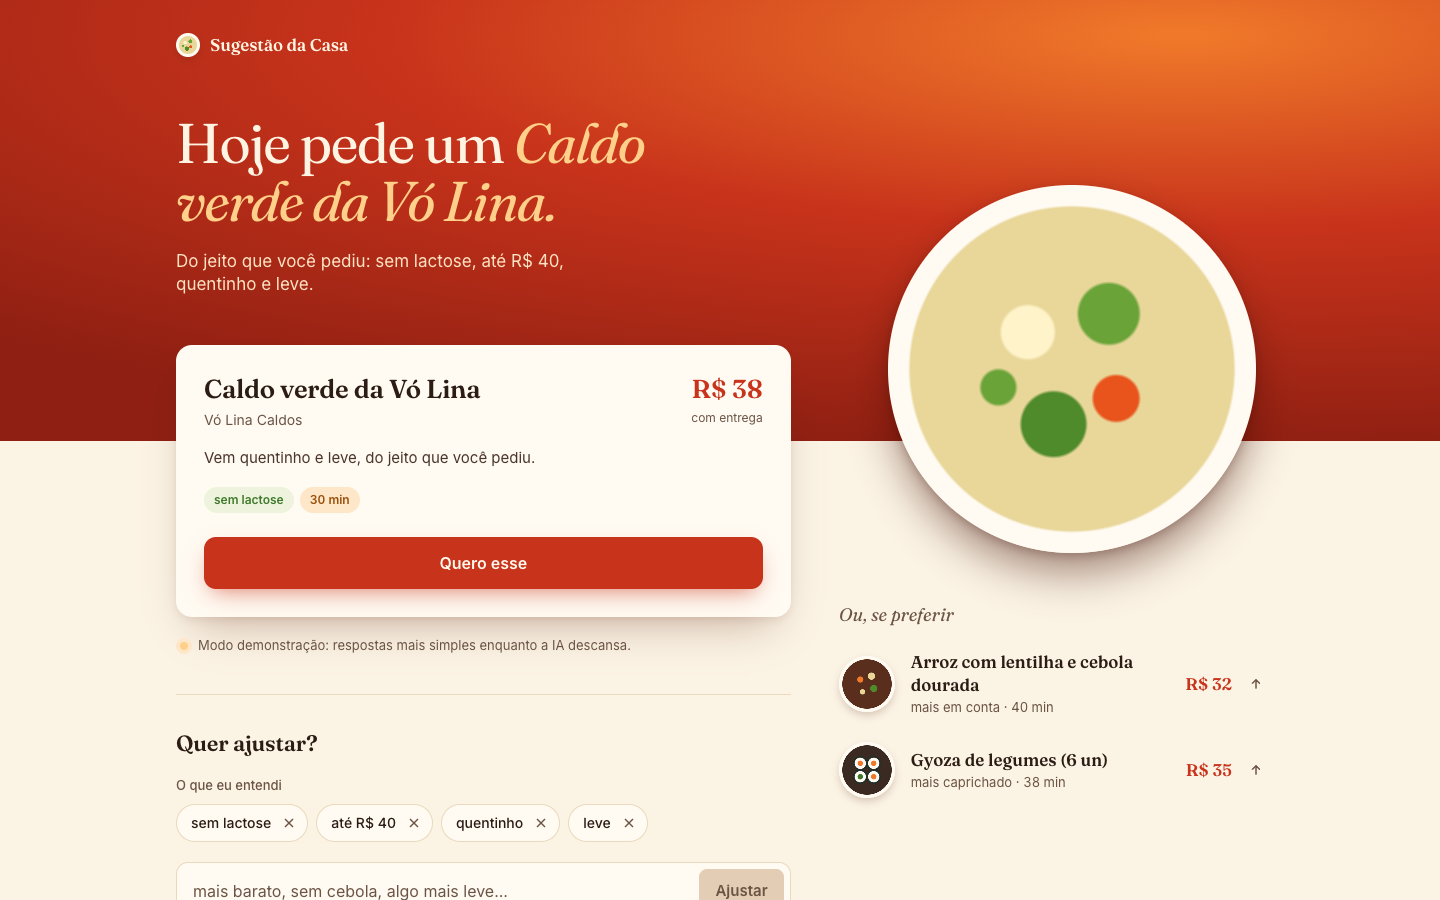
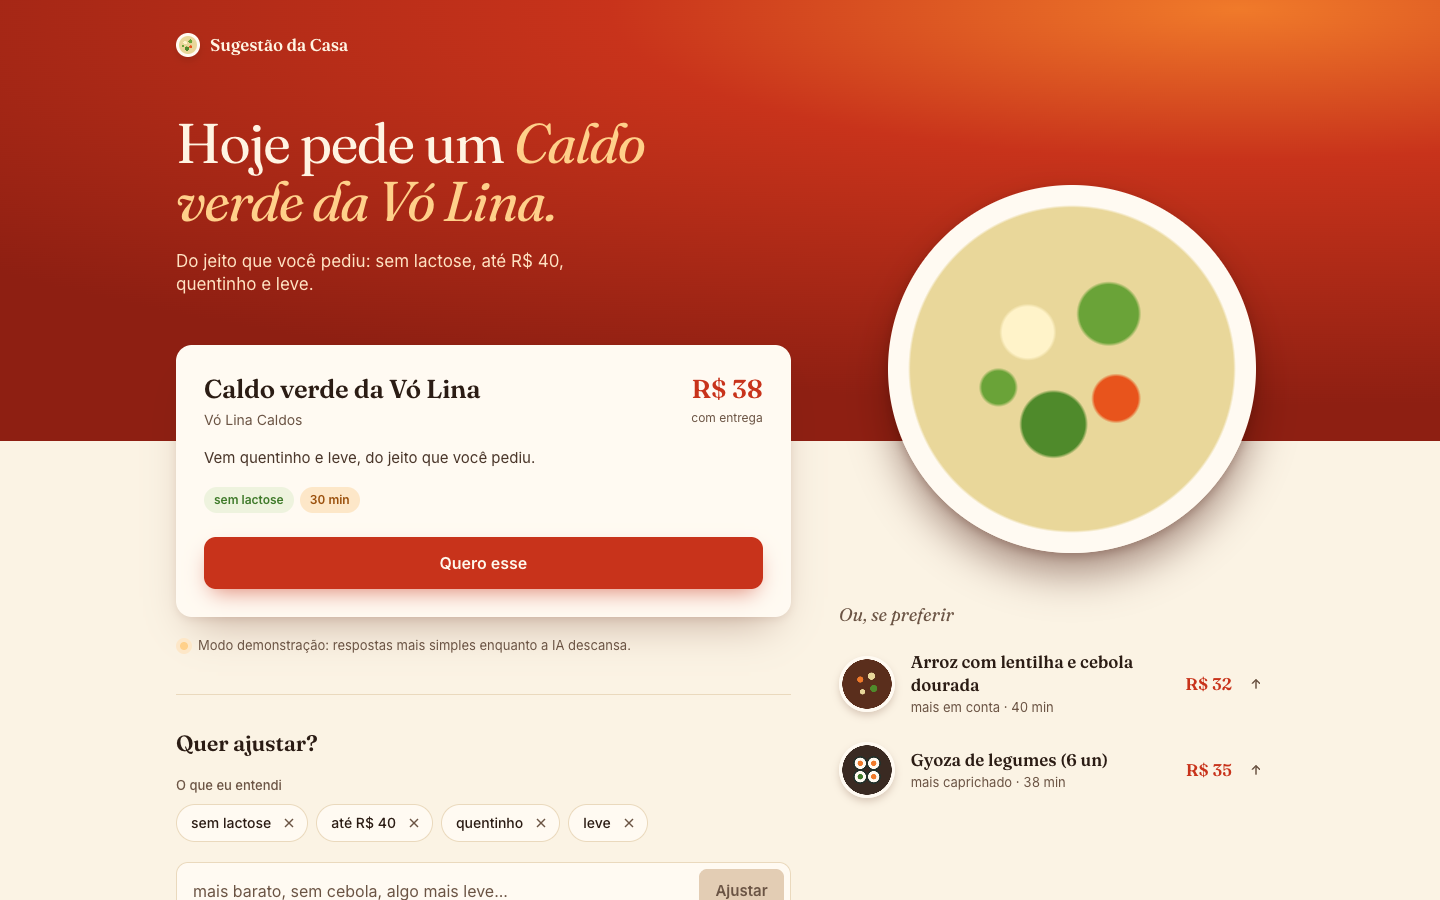
fix: foco visível e gerenciado, contraste do topo e casos de borda
Anel de foco sólido nos campos; foco vai ao título quando a tela muda;
gradiente do topo mais fechado no canto; ok sem principal cai em sem
resultado; só fotos do Unsplash vão para o next/image; troca de
alternativa anunciada; ids sem colisão.

Changed region(s): [[0.5, 0.0933, 0.875, 0.1867]]

diff --git a/frontend/app/page.tsx b/frontend/app/page.tsx
@@ -1,14 +1,14 @@
 "use client";
 
-import { useEffect, type ReactNode } from "react";
+import { useEffect, useRef, useState, type ReactNode } from "react";
 import { Ajuste } from "@/components/Ajuste";
 import { Compositor } from "@/components/Compositor";
-import { Cozinha } from "@/components/Cozinha";
+import { Cozinha, ID_CAMPO_PEDIDO, ID_TITULO } from "@/components/Cozinha";
 import { Decisao } from "@/components/Decisao";
 import { aquecer } from "@/lib/api";
 import { formatarReais } from "@/lib/formato";
 import { useSessao, type EstadoSessao } from "@/lib/sessao";
-import type { PratoSugerido } from "@/lib/tipos";
+import type { PratoSugerido, RespostaSugestao } from "@/lib/tipos";
 
 // O carrinho chega na próxima etapa; por enquanto "Quero esse" não leva a lugar nenhum.
 function aoQuerer(prato: PratoSugerido) {
@@ -22,7 +22,7 @@ function anuncio(estado: EstadoSessao): string {
     const p = resposta.principal;
     return `${resposta.frase_decisao ?? p.nome} ${formatarReais(p.total_centavos)} com entrega.`;
   }
-  if (fase === "sem_resultado") return "Não encontrei um prato com tudo isso.";
+  if (fase === "sem_resultado" || fase === "resultado") return "Não encontrei um prato com tudo isso.";
   if (fase === "falha") return "A cozinha não respondeu.";
   return "";
 }
@@ -38,7 +38,11 @@ const PRATOS_DA_ABERTURA = (
 function TituloSimples({ titulo, texto }: { titulo: ReactNode; texto: string }) {
   return (
     <>
-      <h1 className="font-titulo text-[2.125rem] font-normal leading-[1.04] tracking-[-0.025em] text-balance sm:text-[2.75rem] md:text-[4rem]">
+      <h1
+        id={ID_TITULO}
+        tabIndex={-1}
+        className="font-titulo text-[2.125rem] outline-none font-normal leading-[1.04] tracking-[-0.025em] text-balance sm:text-[2.75rem] md:text-[4rem]"
+      >
         {titulo}
       </h1>
       <p className="mt-3 max-w-[38ch] text-[0.9375rem] leading-snug text-creme-rosado md:mt-5 md:text-[1.0625rem]">
@@ -53,16 +57,38 @@ export default function Home() {
   const { fase, resposta } = estado;
   const pensando = fase === "pensando";
   const frasePensando = estado.ultimoPedido?.texto ?? null;
+  // Troca de alternativa feita na tela, anunciada enquanto a resposta for a mesma.
+  const [troca, setTroca] = useState<{ de: RespostaSugestao; nome: string } | null>(null);
+  const faseAnterior = useRef(fase);
 
   useEffect(() => {
     aquecer();
   }, []);
 
+  // Quando a tela muda, o foco vai junto: para o título da tela nova, ou para o campo ao voltar ao início.
+  useEffect(() => {
+    const antes = faseAnterior.current;
+    faseAnterior.current = fase;
+    if (fase === "resultado" || fase === "sem_resultado" || fase === "falha") {
+      document.getElementById(ID_TITULO)?.focus();
+    } else if (fase === "inicio" && antes !== "inicio") {
+      document.getElementById(ID_CAMPO_PEDIDO)?.focus();
+    }
+  }, [fase, resposta]);
+
+  function aoTrocar(prato: PratoSugerido) {
+    escolherPrato(prato.id);
+    if (resposta) setTroca({ de: resposta, nome: prato.nome });
+  }
+
+  const aviso =
+    fase === "resultado" && troca && troca.de === resposta ? `Agora a sugestão é ${troca.nome}.` : anuncio(estado);
+
   let tela: ReactNode;
 
-  if (resposta && resposta.status === "ok" && (fase === "resultado" || pensando)) {
+  if (resposta?.principal && resposta.status === "ok" && (fase === "resultado" || pensando)) {
     tela = (
-      <Decisao resposta={resposta} aoQuerer={aoQuerer} aoTrocar={(p) => escolherPrato(p.id)} pensando={pensando}>
+      <Decisao resposta={resposta} aoQuerer={aoQuerer} aoTrocar={aoTrocar} pensando={pensando}>
         <Ajuste
           etiquetas={resposta.entendido}
           aoRemover={removerEtiqueta}
@@ -72,7 +98,7 @@ export default function Home() {
         />
       </Decisao>
     );
-  } else if (resposta && (fase === "sem_resultado" || pensando)) {
+  } else if (resposta && (fase === "sem_resultado" || fase === "resultado" || pensando)) {
     // Provisório: a tela caprichada de "sem resultado" vem na próxima etapa.
     tela = (
       <Cozinha
@@ -146,7 +172,7 @@ export default function Home() {
     <main className="flex flex-1 flex-col">
       {tela}
       <p aria-live="polite" className="sr-only">
-        {anuncio(estado)}
+        {aviso}
       </p>
     </main>
   );

diff --git a/frontend/tests/unit/telas.test.tsx b/frontend/tests/unit/telas.test.tsx
@@ -1,8 +1,10 @@
-import { fireEvent, render, screen, within } from "@testing-library/react";
+import { fireEvent, render, screen, waitFor, within } from "@testing-library/react";
+import Home from "@/app/page";
 import { describe, expect, it, vi } from "vitest";
 import { Compositor } from "@/components/Compositor";
 import { Decisao } from "@/components/Decisao";
 import { Entendido } from "@/components/Entendido";
+import { FotoPrato } from "@/components/FotoPrato";
 import { SeloDemonstracao } from "@/components/SeloDemonstracao";
 import type { RespostaSugestao } from "@/lib/tipos";
 import { prato, respostaOk } from "./fixtures";
@@ -96,5 +98,53 @@ describe("Entendido", () => {
     );
     fireEvent.click(screen.getByRole("button", { name: "Remover sem lactose" }));
     expect(aoRemover).toHaveBeenCalledWith("restricao:sem_lactose");
+  });
+});
+
+function servirResposta(resposta: RespostaSugestao) {
+  const fetch = vi.fn((url: string) =>
+    Promise.resolve(
+      url.endsWith("/health")
+        ? new Response("{}", { status: 200 })
+        : new Response(JSON.stringify(resposta), { status: 200 }),
+    ),
+  );
+  vi.stubGlobal("fetch", fetch);
+  return fetch;
+}
+
+describe("Home", () => {
+  it("move o foco para o título quando o resultado chega e anuncia a troca", async () => {
+    servirResposta(respostaCompleta());
+    render(<Home />);
+    fireEvent.click(screen.getByRole("button", { name: /fresquinho e rápido/ }));
+    const titulo = await screen.findByRole("heading", { level: 1, name: "Hoje pede um Caldo verde." });
+    await waitFor(() => expect(titulo).toHaveFocus());
+    fireEvent.click(screen.getByRole("button", { name: /Lámen shoyu/ }));
+    expect(screen.getByText("Agora a sugestão é Lámen shoyu.")).toBeInTheDocument();
+    vi.unstubAllGlobals();
+  });
+
+  it("status ok sem prato principal cai na tela de sem resultado", async () => {
+    servirResposta({ ...respostaCompleta(), principal: null, alternativas: [] });
+    render(<Home />);
+    fireEvent.click(screen.getByRole("button", { name: /fresquinho e rápido/ }));
+    const titulo = await screen.findByRole("heading", { level: 1, name: "Com tudo isso junto, não achei." });
+    await waitFor(() => expect(titulo).toHaveFocus());
+    vi.unstubAllGlobals();
+  });
+});
+
+describe("FotoPrato", () => {
+  it("usa o prato ilustrado quando a foto não é do Unsplash", () => {
+    const { container, rerender } = render(
+      <FotoPrato nome="Caldo" fotoUrl="https://exemplo.com/caldo.jpg" tamanho="medio" sizes="56px" />,
+    );
+    expect(container.querySelector("img")).toBeNull();
+    expect(container.firstChild).toHaveClass("prato-caldo");
+    rerender(
+      <FotoPrato nome="Caldo" fotoUrl="https://images.unsplash.com/photo-1?w=800" tamanho="medio" sizes="56px" />,
+    );
+    expect(container.querySelector("img")).not.toBeNull();
   });
 });

diff --git a/frontend/components/Compositor.tsx b/frontend/components/Compositor.tsx
@@ -2,6 +2,7 @@
 
 import { useId, useState, type FormEvent, type KeyboardEvent } from "react";
 import { LIMITES } from "@/lib/tipos";
+import { ID_CAMPO_PEDIDO } from "./Cozinha";
 import { Pensando } from "./Pensando";
 
 export const EXEMPLOS = [
@@ -21,7 +22,7 @@ interface Props {
 /** Quadro do pedido: o campo grande, o botão e os exemplos. Vira o "pensando" no mesmo lugar. */
 export function Compositor({ aoEnviar, pensando, frasePensando }: Props) {
   const [texto, setTexto] = useState("");
-  const campoId = useId();
+  const campoId = ID_CAMPO_PEDIDO;
   const contadorId = useId();
   const vazio = texto.trim().length === 0;
 
@@ -44,7 +45,7 @@ export function Compositor({ aoEnviar, pensando, frasePensando }: Props) {
 
   return (
     <div>
-      <div className="relative min-h-[13.5rem] rounded-2xl bg-cartao transition-shadow duration-200 has-[textarea:focus]:ring-2 has-[textarea:focus]:ring-tomate/45 shadow-[0_18px_40px_-12px_rgb(90_30_10/0.28),0_2px_6px_rgb(90_30_10/0.08)]">
+      <div className="relative min-h-[13.5rem] rounded-2xl bg-cartao transition-shadow duration-200 has-[textarea:focus-visible]:ring-[3px] has-[textarea:focus-visible]:ring-tomate shadow-[0_18px_40px_-12px_rgb(90_30_10/0.28),0_2px_6px_rgb(90_30_10/0.08)]">
         {pensando ? (
           <div className="absolute inset-0 px-5 py-5 sm:px-7">
             <Pensando frase={frasePensando} />

diff --git a/frontend/components/Ajuste.tsx b/frontend/components/Ajuste.tsx
@@ -29,7 +29,7 @@ export function Ajuste({ etiquetas, aoRemover, aoEnviar, pensando, frasePensando
   return (
     <section className="border-t border-borda pt-8">
       <h2 className="font-titulo text-[1.375rem] font-semibold tracking-[-0.01em] text-tinta">
-        <label htmlFor={campoId}>Quer ajustar?</label>
+        {pensando ? "Quer ajustar?" : <label htmlFor={campoId}>Quer ajustar?</label>}
       </h2>
       <div className="mt-4">
         <Entendido etiquetas={etiquetas} aoRemover={aoRemover} desabilitado={pensando} />
@@ -42,7 +42,7 @@ export function Ajuste({ etiquetas, aoRemover, aoEnviar, pensando, frasePensando
         ) : (
           <form
             onSubmit={aoSubmeter}
-            className="flex min-h-[3.5rem] items-center gap-2 rounded-xl border border-borda bg-cartao py-1.5 pl-4 pr-1.5 transition-shadow duration-200 has-[input:focus]:border-tomate/50 has-[input:focus]:ring-2 has-[input:focus]:ring-tomate/25"
+            className="flex min-h-[3.5rem] items-center gap-2 rounded-xl border border-borda bg-cartao py-1.5 pl-4 pr-1.5 transition-shadow duration-200 has-[input:focus-visible]:border-tomate has-[input:focus-visible]:ring-2 has-[input:focus-visible]:ring-tomate"
           >
             <input
               id={campoId}

diff --git a/frontend/components/Decisao.tsx b/frontend/components/Decisao.tsx
@@ -3,7 +3,7 @@
 import { useState, type ReactNode } from "react";
 import type { PratoSugerido, RespostaSugestao } from "@/lib/tipos";
 import { Alternativas } from "./Alternativas";
-import { Cozinha } from "./Cozinha";
+import { Cozinha, ID_TITULO } from "./Cozinha";
 import { FotoPrato } from "./FotoPrato";
 import { PratoPrincipal } from "./PratoPrincipal";
 import { SeloDemonstracao } from "./SeloDemonstracao";
@@ -69,7 +69,9 @@ export function Decisao({ resposta, aoQuerer, aoTrocar, pensando = false, childr
       topo={
         <div className={esmaecido}>
           <h1
-            className={`font-titulo font-normal leading-[1.04] tracking-[-0.025em] text-balance ${tamanhoDoTitulo(frase)}`}
+            id={ID_TITULO}
+            tabIndex={-1}
+            className={`font-titulo font-normal outline-none leading-[1.04] tracking-[-0.025em] text-balance ${tamanhoDoTitulo(frase)}`}
           >
             {trocou ? (
               <>

diff --git a/frontend/app/globals.css b/frontend/app/globals.css
@@ -42,13 +42,16 @@ body {
   color: var(--color-tinta);
 }
 
-:focus-visible {
-  outline: 3px solid var(--color-tomate);
-  outline-offset: 3px;
-}
+/* Na camada base, para utilitários como outline-none poderem trocar o anel por outro. */
+@layer base {
+  :focus-visible {
+    outline: 3px solid var(--color-tomate);
+    outline-offset: 3px;
+  }
 
-.cozinha :focus-visible {
-  outline-color: var(--color-acafrao);
+  .cozinha :focus-visible {
+    outline-color: var(--color-acafrao);
+  }
 }
 
 @layer components {
@@ -59,7 +62,7 @@ body {
 /* Bloco quente do topo: páprica que escurece em tomate. */
 .cozinha {
   background:
-    radial-gradient(120% 95% at 82% 8%, #f07a2a 0%, #c8331b 46%, #8e1f12 100%);
+    radial-gradient(115% 90% at 86% 2%, #f07a2a 0%, #c8331b 38%, #8e1f12 100%);
   color: var(--color-creme-quente);
   overflow-x: clip;
 }

diff --git a/frontend/components/Entendido.tsx b/frontend/components/Entendido.tsx
@@ -1,3 +1,4 @@
+import { useId } from "react";
 import type { Etiqueta } from "@/lib/tipos";
 
 interface Props {
@@ -8,13 +9,14 @@ interface Props {
 
 /** O que a casa entendeu do pedido, com um botão para tirar cada item. */
 export function Entendido({ etiquetas, aoRemover, desabilitado = false }: Props) {
+  const tituloId = useId();
   if (etiquetas.length === 0) return null;
   return (
     <div>
-      <p id="entendido-titulo" className="text-[0.8125rem] font-medium text-texto-suave">
+      <p id={tituloId} className="text-[0.8125rem] font-medium text-texto-suave">
         O que eu entendi
       </p>
-      <ul aria-labelledby="entendido-titulo" className="mt-2 flex flex-wrap gap-2">
+      <ul aria-labelledby={tituloId} className="mt-2 flex flex-wrap gap-2">
         {etiquetas.map((e) => (
           <li
             key={e.chave}

diff --git a/frontend/components/FotoPrato.tsx b/frontend/components/FotoPrato.tsx
@@ -53,7 +53,8 @@ interface Props {
 /** Prato visto de cima: foto real num prato creme, ou o desenho quando não há foto. */
 export function FotoPrato({ nome, fotoUrl, tamanho, sizes, className = "", preload = false }: Props) {
   const base = `prato ${CLASSE_TAMANHO[tamanho]} ${className}`;
-  if (!fotoUrl) {
+  // Só fotos do Unsplash passam pelo next/image (é o único host liberado no next.config).
+  if (!fotoUrl || !fotoUrl.startsWith("https://images.unsplash.com/")) {
     return <div aria-hidden="true" className={`${base} prato-${receitaDoPrato(nome)}`} />;
   }
   return (

diff --git a/frontend/components/Cozinha.tsx b/frontend/components/Cozinha.tsx
@@ -1,5 +1,10 @@
 import type { ReactNode } from "react";
 
+/** O h1 de cada tela recebe o foco quando a tela muda (teclado e leitor de tela). */
+export const ID_TITULO = "titulo-tela";
+/** O campo principal do pedido, focado ao voltar para o início. */
+export const ID_CAMPO_PEDIDO = "campo-pedido";
+
 interface Props {
   /** O h1 e o que vem logo abaixo dele, dentro do bloco quente. */
   topo: ReactNode;
